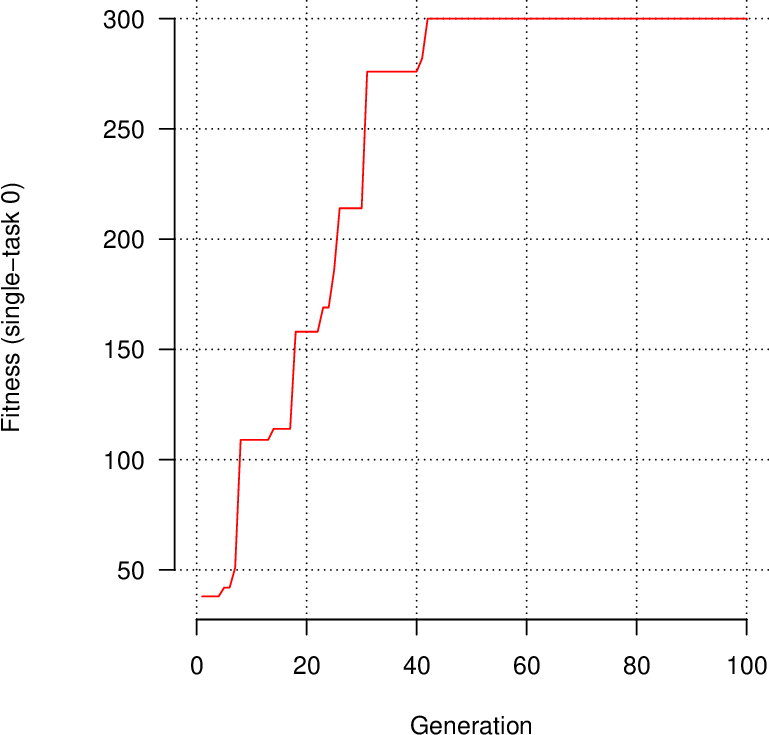
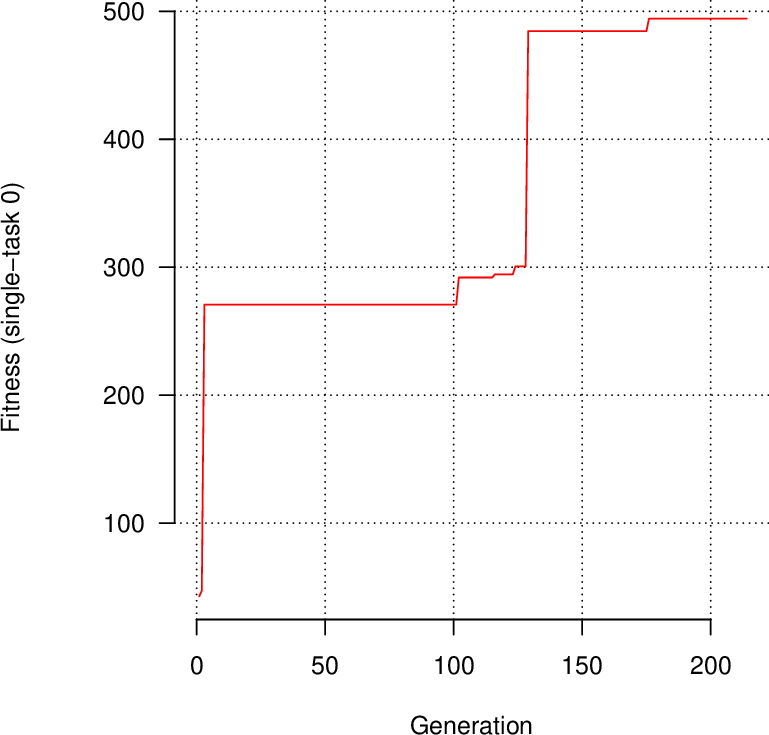
updating classic_control_example

diff --git a/scripts/plot/gptpxxi-plot-train.py b/scripts/plot/gptpxxi-plot-train.py
@@ -3,7 +3,9 @@ import pandas as pd
 import matplotlib.pyplot as plt
 import pathlib
 import sys
+from matplotlib.lines import Line2D 
 
+truncate_gen=2000
 
 def clip_generations(df):
   # Find the index of the first row with any NaN values
@@ -16,24 +18,41 @@ def clip_generations(df):
     truncated_df = df.loc[:first_nan_index-1]
   return truncated_df
 
-def plot_experiment(arg, col, alph):
+def plot_experiment(arg, col, lab):
   file = sys.argv[arg]
   p = pathlib.Path(file)
   df = pd.read_csv(p, header=None, sep="\s+",names=range(max_gen))
   df = df.T
   # df = clip_generations(df)
+  #truncate to generation 2000
+  df = df.loc[:truncate_gen]
   medians = df.median(axis='columns')
-  plt.plot(df, color=col, alpha=alph)
-#   plt.plot(medians.index, medians.values, linestyle='-', color=col)
+  # Plot all lines.
+  # plt.plot(df, color=col, alpha=alph)
+  plt.plot(medians.index, medians.values, linestyle='-', color=col, label=lab)
+
+  x = np.linspace(0,len(df.axes[0]),len(df.axes[0]))
+  mins = df.min(axis='columns')
+  maxs = df.max(axis='columns')
+  plt.fill_between(x, maxs, mins, color=col, alpha=0.4)
   
 
-max_gen = 100000
+max_gen = 15000
 plot_name = sys.argv[1]
-plt.rcParams["figure.figsize"] = [7.50, 3.50]
+# plt.rcParams["figure.figsize"] = [7.50, 3.50]
+plt.rcParams["figure.figsize"] = [6, 4]
 plt.rcParams["figure.autolayout"] = True
 
-plot_experiment(2,'b', 1.0)
-plot_experiment(3,'r', 0.5)
+cmap = plt.get_cmap("tab10")
+
+plot_experiment(2,cmap(0), "scalar,vector,matrix")
+plot_experiment(3,cmap(1), 'scalar')
+
+custom_lines = [Line2D([0], [0], color=cmap(0), lw=4),
+                Line2D([0], [0], color=cmap(1), lw=4)]
+plt.legend(title='Operation Types',loc='upper left')
+plt.xlabel("Generation")
+plt.ylabel("Instructions per Prediction")
 
 # plt.show()
 plt.savefig(plot_name)

diff --git a/src/cpp/experiments/tpg_eval_mpi.h b/src/cpp/experiments/tpg_eval_mpi.h
@@ -787,7 +787,7 @@ void EvalRecursiveForecastViz(TPG &tpg, EvalStruct &eval,
   // TODO(spkelly): fix hard coding
   int n_var = tpg.GetParam<int>("forecast_univar") ? 1 : 3;
   PrintRecursizeForecast(
-      "tpg_" + to_string(tpg.seeds_[TPG_SEED]) + "_test_t" +
+      "tpg_seed_" + to_string(tpg.seeds_[TPG_SEED]) + "_task_" + to_string(tpg.state_["active_task"]) + "_test_t" +
           to_string(task->t_start[tpg.GetParam<int>("checkpoint_in_phase")]
                                  [eval.episode]) +
           ".csv",
@@ -815,8 +815,8 @@ void replayer_viz(TPG &tpg, vector<TaskEnv *> &tasks) {
 
     vector<int> steps_per_task(tpg.GetState("n_task"), 0);
     // TODO(skelly): clean up
-    // for (int task = 0; task < tpg.GetState("n_task"); task++) {
-    // tpg.state_["active_task"] = task;
+    for (int task = 0; task < tpg.GetState("n_task"); task++) {
+    tpg.state_["active_task"] = task;
     eval.task = tasks[tpg.GetState("active_task")];
     if (eval.animate)
       eval.tm->_n_eval = 1;
@@ -838,7 +838,7 @@ void replayer_viz(TPG &tpg, vector<TaskEnv *> &tasks) {
       }
       FinalizeStepStats(tpg, eval);
     }
-    // }
+    }
     tpg.printGraphDotGPTPXXI(eval.tm->id_, visitedTeamsAllTasks,
                              teamUseMapPerTask, steps_per_task);
   }

diff --git a/scripts/plot/tpg-plot-horizon.py b/scripts/plot/tpg-plot-horizon.py
@@ -13,8 +13,19 @@ df = pd.read_csv(p)
 
 # df.plot(plt.plot(df.Name, df.Marks))
 df.plot(x='Time', y=['x0', 'y0'])
+
+# draw prime lines
+# plt.ylim(0.3,0.85)
+plt.hlines(y=0.93, xmin=950, xmax=999, linewidth=2, color='r')
+plt.vlines(x=950, ymin=0.91, ymax=0.93, linewidth=2, color='r')
+plt.vlines(x=999, ymin=0.91, ymax=0.93, linewidth=2, color='r')
+plt.text(975, 0.97, 'prime steps', ha='center', va='center')
+
 # plt.xticks(x, labels, rotation=45)
-plt.legend()#['Target', 'Prediction'])
-plt.ylim(0,1)
+# plt.legend()#['Target', 'Prediction'])
+plt.legend(['Target', 'Prediction'], ncol=2, frameon=True, loc='upper right', bbox_to_anchor=(1.005, 1.15))
+
+plt.ylim(-.05,1.05)
 # plt.ylim(0,128)
-plt.savefig(p.with_name(p.name.split('.')[0]).with_suffix('.png'))
+plt.savefig(p.with_name(p.name.split('.')[0]).with_suffix('.pdf'))
+plt.show()

diff --git a/src/cpp/experiments/TPGExperimentMPI.cc b/src/cpp/experiments/TPGExperimentMPI.cc
@@ -102,6 +102,7 @@ int main(int argc, char **argv) {
       cerr << "Unrecognised task:" << substr << endl;
       exit(1);
     }
+    
     if (tasks[tasks.size() - 1]->eval_type_ == "RecursiveForecast") {
       RecursiveForecast *task =
           dynamic_cast<RecursiveForecast *>(tasks[tasks.size() - 1]);
@@ -121,7 +122,7 @@ int main(int argc, char **argv) {
       }
     }
   }
-
+  
   // Create task indices vector
   vector<int> taskIndices;
   for (int i = 0; i < (int)tasks.size(); i++) taskIndices.push_back(i);

diff --git a/src/cpp/TPG/TPG.cc b/src/cpp/TPG/TPG.cc
@@ -1646,7 +1646,7 @@ void TPG::printGraphDotGPTPXXI(long rootTeamId,
   char outputFilename[80];
   ofstream ofs;
 
-  sprintf(outputFilename, "replay/gv_taskDecomposition_%d%s",
+  sprintf(outputFilename, "replay/graphs/gv_taskDecomposition_%d%s",
           (int)rootTeam->id_, ".dot");
   ofs.open(outputFilename, ios::out);
   if (!ofs) die(__FILE__, __FUNCTION__, __LINE__, "Can't open file.");

diff --git a/src/cpp/environments/sequence/RecursiveForecast.h b/src/cpp/environments/sequence/RecursiveForecast.h
@@ -159,6 +159,7 @@ class RecursiveForecast : public TaskEnv {
       for (size_t row = 0; row < data.size(); row++) {
         data[row][col] =
             (data[row][col] - min_feature) / (max_feature - min_feature);
+        cerr <<  data[row][col] << endl;   
       }
     }
   }
